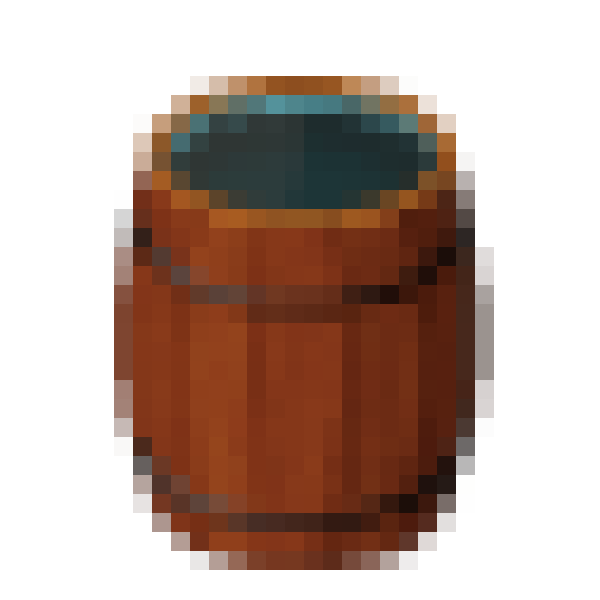
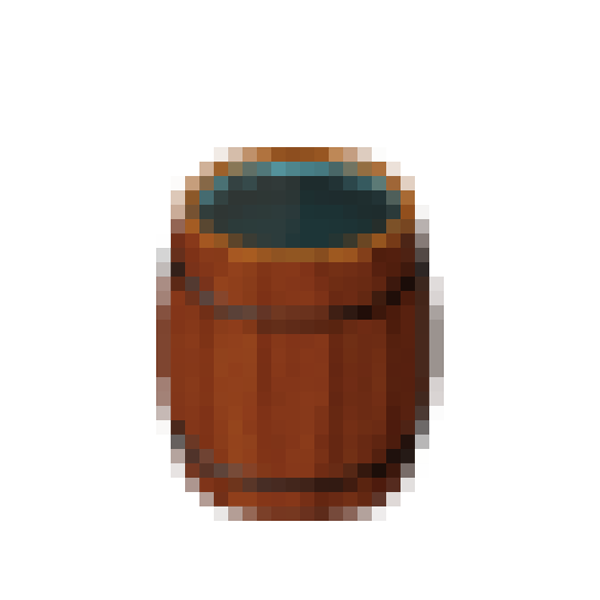
Tekst lewym górnym rogu, wyswietlanie HP murków, dodanie zdj do ObstacleWithHP

diff --git a/battle-gui/src/main/java/pl/psi/gui/MainBattleController.java b/battle-gui/src/main/java/pl/psi/gui/MainBattleController.java
@@ -129,9 +129,14 @@ public class MainBattleController implements PropertyChangeListener
                     mapTile.addEventHandler(MouseEvent.MOUSE_CLICKED, (e) -> onSpellCastMapClick(e, currentPoint));
                 }
 
-                creature.ifPresent( c -> mapTile.setName( c.toString() ) );
-                creature.ifPresent( c -> mapTile.setIcon( c.getImagePath() ) );
-                wall.ifPresent( w -> mapTile.setIcon( w.getImagePath()));
+                creature.ifPresent(c -> {
+                    mapTile.setName(c.toString());
+                    mapTile.setIcon(c.getImagePath());
+                });
+                wall.ifPresent( w -> {
+                    mapTile.setIcon( w.getImagePath());
+                    mapTile.setName( w.toStringHP());
+                });
                 if ( gameEngine.isObstacle(currentPoint)) {
                     mapTile.setIcon(obstacle.getImagePath());
                 }

diff --git a/battle-model/src/main/java/pl/psi/creatures/Ballista.java b/battle-model/src/main/java/pl/psi/creatures/Ballista.java
@@ -32,7 +32,7 @@ public class Ballista extends Creature {
 
     public static class Builder {
         private int amount = 1;
-        private MachineCalculatorDecorator calculator = new MachineCalculatorDecorator(new DefaultDamageCalculator(new Random()), 0);
+        private MachineCalculatorDecorator calculator = new MachineCalculatorDecorator(new DefaultDamageCalculator(new Random()), 1);
         private CreatureStatisticIf statistic;
         private CreatureTypeEnum creatureType = CreatureTypeEnum.MACHINE;
         private AttackTypeEnum attackType = AttackTypeEnum.RANGE;
@@ -92,6 +92,10 @@ public class Ballista extends Creature {
                 hitPercentage = 100;
         }
         return hitPercentage;
+    }
+    @Override
+    public void attack(DefenderIf creature, AttackTypeEnum attackType) {
+        attack(creature);
     }
     @Override
     public void attack(DefenderIf creature) {

diff --git a/battle-model/src/main/java/pl/psi/creatures/Catapult.java b/battle-model/src/main/java/pl/psi/creatures/Catapult.java
@@ -28,7 +28,6 @@ public class Catapult extends Creature implements  DefenderIf {
                      final int aAmount, CreatureTypeEnum aCreatureType, AttackTypeEnum aAttackType) {
         super(aStats, aCalculator, aAmount, aCreatureType, aAttackType, new Morale(0));
         this.level = 1;
-//        this.attackStrategy = (new CatapultAttackStrategy());
     }
 
     public static class Builder {
@@ -104,10 +103,15 @@ public class Catapult extends Creature implements  DefenderIf {
     @Override
     public void attack(DefenderIf target) {
         attack(target, (Point) null);
+        System.out.println("Catapult attack");
+    }
+
+    @Override
+    public void attack(DefenderIf target, AttackTypeEnum attackType) {
+        attack(target);
     }
 
     //75% chance to hit
-    //check engine
     @Override
     public boolean randomChance() {
         Random random = new Random();

diff --git a/battle-gui/src/main/java/pl/psi/gui/GridTile.java b/battle-gui/src/main/java/pl/psi/gui/GridTile.java
@@ -8,6 +8,7 @@ import javafx.scene.image.ImageView;
 import javafx.scene.layout.StackPane;
 import javafx.scene.paint.Color;
 import javafx.scene.shape.Rectangle;
+import javafx.scene.text.Font;
 
 import java.io.FileInputStream;
 import java.io.InputStream;
@@ -34,6 +35,7 @@ class GridTile extends StackPane
         getChildren().add(imageView);
 
         label = new Label( aName );
+        label.setFont(new Font("Arial", 8));
         StackPane.setAlignment(label, Pos.TOP_LEFT);
         StackPane.setMargin(label, new Insets(0, 0, 0, 4));
         getChildren().add( label );

diff --git a/battle-model/src/main/java/pl/psi/GameEngine.java b/battle-model/src/main/java/pl/psi/GameEngine.java
@@ -54,6 +54,7 @@ public class GameEngine {
     public void move(final Point aPoint) {
         board.move(turnQueue.getCurrentCreature(), aPoint);
         observerSupport.firePropertyChange(CREATURE_MOVED, null, aPoint);
+        pass();
     }
 
     public Optional<Creature> getCreature(final Point aPoint) {

diff --git a/battle-model/src/main/java/pl/psi/creatures/Creature.java b/battle-model/src/main/java/pl/psi/creatures/Creature.java
@@ -297,6 +297,7 @@ public class Creature implements PropertyChangeListener, DefenderIf {
 
     public void attack(DefenderIf target, AttackTypeEnum attackType) {
         attack(target, attackType, null);
+        System.out.println("creature attack");
     }
 
     public TargetTypeEnum getType() {

diff --git a/battle-model/src/main/java/pl/psi/obstacles/Wall.java b/battle-model/src/main/java/pl/psi/obstacles/Wall.java
@@ -99,4 +99,8 @@ public class Wall implements ObstaclesIF, ObstaclesObservable, DefenderIf {
         }
         return lastUsedName;
     }
+
+    public String toStringHP() {
+        return String.valueOf(getHP());
+    }
 }
